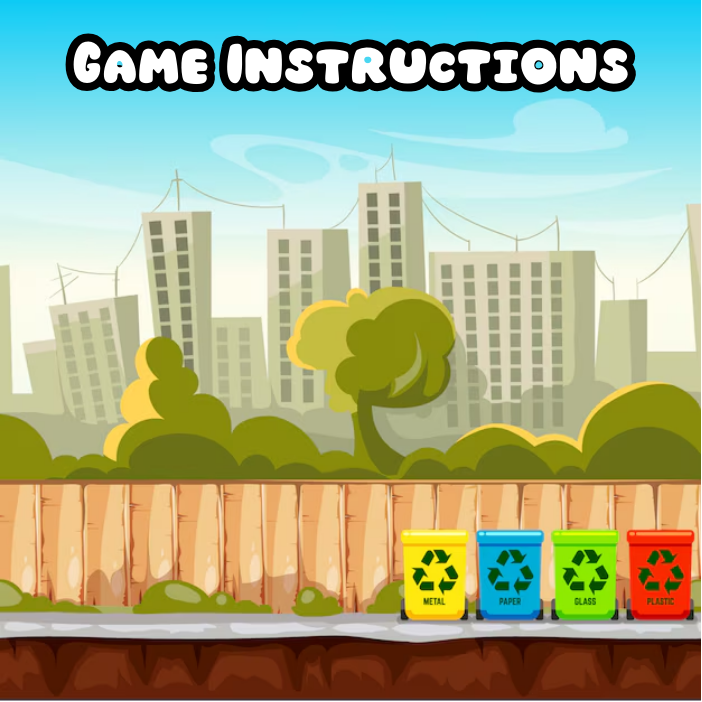
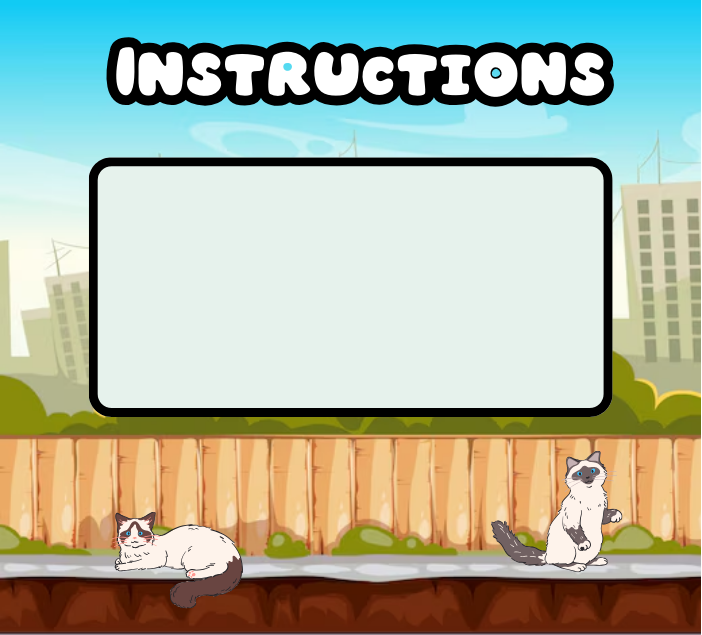
changed a few things in certain scenes & edited bg images

diff --git a/lwjgl3/src/main/java/io/github/some_example_name/lwjgl3/InstructionsScene.java b/lwjgl3/src/main/java/io/github/some_example_name/lwjgl3/InstructionsScene.java
@@ -2,16 +2,10 @@ package io.github.some_example_name.lwjgl3;
 
 import com.badlogic.gdx.Gdx;
 import com.badlogic.gdx.graphics.Color;
-import com.badlogic.gdx.graphics.g2d.BitmapFont;
-import com.badlogic.gdx.graphics.g2d.GlyphLayout;
-import com.badlogic.gdx.graphics.g2d.SpriteBatch;
 
 public class InstructionsScene extends Scene {
     private BackgroundEntity background;
     private CustomButton dismissButton;
-    private SpriteBatch spriteBatch;
-    private BitmapFont font;
-//    private String[] instructions;
     private Word word;
     
     float screenWidth = Gdx.graphics.getWidth();
@@ -25,11 +19,8 @@ public class InstructionsScene extends Scene {
     @Override
     public void create() {
         super.create();
-//        spriteBatch = new SpriteBatch();
-        
-        
 
-        // ✅ Load Background Image
+        // Load Background Image
         background = new BackgroundEntity("instructions_bg.png", 0, 0);
         this.entityManager.addEntity(background);
 
@@ -40,14 +31,15 @@ public class InstructionsScene extends Scene {
 //            "• Collect recyclable items and throw in the correct bins",
 //            "• Try to score as much before time runs out!"
 //        };
-     // Adjusted Text Positioning for Centering
-        float textX = screenWidth / 2 - 310;  // Center align text
-        float textY = screenHeight / 2 - 50;
 
+        float textX = screenWidth / 2 - 350;  // Center align text
+        float textY = screenHeight / 2 + 200;
+        
         word = new Word(textX, textY, 0.1f, Color.BLACK, 
-                "OverTrashed is a fun and educational game! \\nAvoid enemies & save the environmen", 2.0f);
-
-     // Dismiss Button - Dimensions and Position as Percentage of Screen
+                "Use mouse to move\nAvoid enemy\nCollect recyclable items and throw in the correct bins\nTry to score as much before time runs out! ", 2.0f);
+        this.entityManager.addWord(word);
+        
+        // Dismiss Button - Dimensions and Position as Percentage of Screen
         float buttonWidth = screenWidth * 0.06f;  // 25% of screen width
         float buttonHeight = screenHeight * 0.06f;  // 8% of screen height
         float buttonX = screenWidth * 0.93f - (buttonWidth)/2;  // Centered horizontally (50% - 25%/2)
@@ -55,30 +47,22 @@ public class InstructionsScene extends Scene {
 
         dismissButton = new CustomButton("dismiss_button.png", buttonX, buttonY, buttonWidth, buttonHeight);
         dismissButton.setOnClickAction(() -> {
+        	this.ioManager.getSoundManager().dispose();
             this.sceneManager.setScene(MainMenuScene.class);
         });
         this.entityManager.addEntity(dismissButton);
         this.ioManager.getInputManager().registerClickable(dismissButton);
         
+        this.ioManager.getSoundManager().loadSound("Game Start", "alone-296348.mp3");
+   	 	this.ioManager.getSoundManager().playSound("Game Start");
+        
     }
+    
+
+	 
 
     @Override
     public void render() {
         super.render();
-//        spriteBatch.begin();
-//
-//        // ✅ Draw "Instructions" Title
-//        font.getData().setScale(2.0f);
-//        font.draw(spriteBatch, "Game Instructions", Gdx.graphics.getWidth() / 2 - 100, Gdx.graphics.getHeight() - 100);
-//
-//        // ✅ Draw Bullet Points
-//        font.getData().setScale(1.5f);
-//        float startY = Gdx.graphics.getHeight() - 200;
-//        for (String instruction : instructions) {
-//            font.draw(spriteBatch, instruction, 100, startY);
-//            startY -= 50;  // Move down for next bullet point
-//        }
-//
-//        spriteBatch.end();
     }
 }

diff --git a/lwjgl3/src/main/java/io/github/some_example_name/lwjgl3/GameOverScene.java b/lwjgl3/src/main/java/io/github/some_example_name/lwjgl3/GameOverScene.java
@@ -1,13 +1,18 @@
 package io.github.some_example_name.lwjgl3;
-import com.badlogic.gdx.Input.Keys;
-import com.badlogic.gdx.graphics.Color;
+//import com.badlogic.gdx.Input.Keys;
+
+import com.badlogic.gdx.Gdx;
 import com.badlogic.gdx.utils.ScreenUtils;
 
 public class GameOverScene extends Scene{
+    private BackgroundEntity background;
+    
+    private CustomButton yesButton;
+    private CustomButton noButton;
 
-	private Word word;
-	private Word word1;
-	private Word word2;
+//	private Word word;
+//	private Word word1;
+//	private Word word2;
 	
 
 	public GameOverScene(String name) {
@@ -17,21 +22,52 @@ public class GameOverScene extends Scene{
 	@Override
     public void create() {
 		super.create();
+		
+
         
-        word = new Word(200, 350, 0.1f, Color.WHITE, "Game Over!!!");
-        word1 = new Word(200, 300, 0.1f, Color.WHITE, "Press R to restart the game.");
-        word2 = new Word(200, 250, 0.1f, Color.WHITE, "Press Q to go main Menu .");
+//        word = new Word(200, 350, 0.1f, Color.WHITE, "Game Over!!!");
+//        word1 = new Word(200, 300, 0.1f, Color.WHITE, "Press R to restart the game.");
+//        word2 = new Word(200, 250, 0.1f, Color.WHITE, "Press Q to go main Menu .");
+//        
+//        this.entityManager.addWord(word);
+//        this.entityManager.addWord(word1);
+//        this.entityManager.addWord(word2);
+//        
+//        this.ioManager.getInputManager().subscribeKeyDown(Keys.R, () -> 
+//        ServiceLocator.get(SceneManager.class).setScene(GameScene.class));
+//      
+//        this.ioManager.getInputManager().subscribeKeyDown(Keys.Q, () -> 
+//        ServiceLocator.get(SceneManager.class).setScene(MainMenuScene.class));
         
-        this.entityManager.addWord(word);
-        this.entityManager.addWord(word1);
-        this.entityManager.addWord(word2);
-        
-        this.ioManager.getInputManager().subscribeKeyDown(Keys.R, () -> 
-        ServiceLocator.get(SceneManager.class).setScene(GameScene.class));
+      // Get screen dimensions
+      float screenWidth = Gdx.graphics.getWidth();
+      float screenHeight = Gdx.graphics.getHeight();
+
+      // Load Background Image
+      background = new BackgroundEntity("gameover_bg.png", 0, 0);
+      this.entityManager.addEntity(background);
       
-        this.ioManager.getInputManager().subscribeKeyDown(Keys.Q, () -> 
-        ServiceLocator.get(SceneManager.class).setScene(MainMenuScene.class));
- 
+      // YES Button 
+      float buttonWidth = screenWidth * 0.15f;  
+      float buttonHeight = screenHeight * 0.10f;  
+      float buttonX = screenWidth * 0.3f - (buttonWidth)/2;  
+      float buttonY = screenHeight * 0.3f - (buttonHeight / 2);  
+
+      yesButton = new CustomButton("yes_button.png", buttonX, buttonY, buttonWidth, buttonHeight);
+      yesButton.setOnClickAction(() -> {
+          this.sceneManager.setScene(GameScene.class);
+      });
+      this.entityManager.addEntity(yesButton);
+      this.ioManager.getInputManager().registerClickable(yesButton);
+      
+      // NO Button
+      noButton = new CustomButton("no_button.png", buttonX + 400f, buttonY, buttonWidth, buttonHeight);
+      noButton.setOnClickAction(() -> {
+          this.sceneManager.setScene(MainMenuScene.class);
+      });
+      this.entityManager.addEntity(noButton);
+      this.ioManager.getInputManager().registerClickable(noButton);
+      
     }
 
  

diff --git a/lwjgl3/src/main/java/io/github/some_example_name/lwjgl3/AboutScene.java b/lwjgl3/src/main/java/io/github/some_example_name/lwjgl3/AboutScene.java
@@ -26,7 +26,7 @@ public class AboutScene extends Scene {
 
         // Adjusted Text Positioning for Centering
         float textX = screenWidth / 2 - 310;  // Center align text
-        float textY = screenHeight / 2 - 50;
+        float textY = screenHeight / 2 - 70;
 
         // CHECK IF NEED TO CENTRALISE
         // Increase Font Size by Changing `scale` (Larger Numbers = Bigger Text)
@@ -47,10 +47,10 @@ public class AboutScene extends Scene {
         this.entityManager.addEntity(background);
 
         // Dismiss Button - Dimensions and Position as Percentage of Screen
-        float buttonWidth = screenWidth * 0.06f;  // 25% of screen width
-        float buttonHeight = screenHeight * 0.06f;  // 8% of screen height
-        float buttonX = screenWidth * 0.93f - (buttonWidth)/2;  // Centered horizontally (50% - 25%/2)
-        float buttonY = screenHeight * 0.93f - (buttonHeight / 2);  // Centered vertically (50% - buttonHeight/2)
+        float buttonWidth = screenWidth * 0.06f;  
+        float buttonHeight = screenHeight * 0.06f;  
+        float buttonX = screenWidth * 0.93f - (buttonWidth)/2;  
+        float buttonY = screenHeight * 0.93f - (buttonHeight / 2);  
 
         dismissButton = new CustomButton("dismiss_button.png", buttonX, buttonY, buttonWidth, buttonHeight);
         dismissButton.setOnClickAction(() -> {
@@ -59,11 +59,11 @@ public class AboutScene extends Scene {
         this.entityManager.addEntity(dismissButton);
         this.ioManager.getInputManager().registerClickable(dismissButton);
         
-        // Play Button - Dimensions and Position as Percentage of Screen
-        float buttonWidth1 = screenWidth * 0.15f;  // 25% of screen width
-        float buttonHeight1 = screenHeight * 0.05f;  // 8% of screen height
-        float buttonX1 = screenWidth * 0.45f - (buttonWidth)/2;  // Centered horizontally (50% - 25%/2)
-        float buttonY1 = screenHeight * 0.27f - (buttonHeight / 2);  // Centered vertically (50% - buttonHeight/2)
+        // INFO Button
+        float buttonWidth1 = screenWidth * 0.15f;  
+        float buttonHeight1 = screenHeight * 0.05f;  
+        float buttonX1 = screenWidth * 0.45f - (buttonWidth)/2;  
+        float buttonY1 = screenHeight * 0.27f - (buttonHeight / 2);  
 
         infoButton = new CustomButton("instructions_button.png", buttonX1, buttonY1, buttonWidth1, buttonHeight1);
         infoButton.setOnClickAction(() -> {

diff --git a/lwjgl3/src/main/java/io/github/some_example_name/lwjgl3/MainMenuScene.java b/lwjgl3/src/main/java/io/github/some_example_name/lwjgl3/MainMenuScene.java
@@ -85,14 +85,14 @@ public class MainMenuScene extends Scene {
         float screenHeight = Gdx.graphics.getHeight();
 
         // Load Background Image
-        background = new BackgroundEntity("OVERTRASHED4.png", 0, 0);
+        background = new BackgroundEntity("OVERTRASHED.png", 0, 0);
         this.entityManager.addEntity(background);
 
         // Play Button - Dimensions and Position as Percentage of Screen
-        float buttonWidth = screenWidth * 0.15f;  // 25% of screen width
-        float buttonHeight = screenHeight * 0.04f;  // 8% of screen height
-        float buttonX = screenWidth * 0.5f - (buttonWidth)/2;  // Centered horizontally (50% - 25%/2)
-        float buttonY = screenHeight * 0.5f - (buttonHeight / 2);  // Centered vertically (50% - buttonHeight/2)
+        float buttonWidth = screenWidth * 0.20f;  
+        float buttonHeight = screenHeight * 0.07f;  
+        float buttonX = screenWidth * 0.5f - (buttonWidth)/2;  
+        float buttonY = screenHeight * 0.5f - (buttonHeight / 2);  
 
         playButton = new CustomButton("play_button.png", buttonX, buttonY, buttonWidth, buttonHeight);
         playButton.setOnClickAction(() -> {
